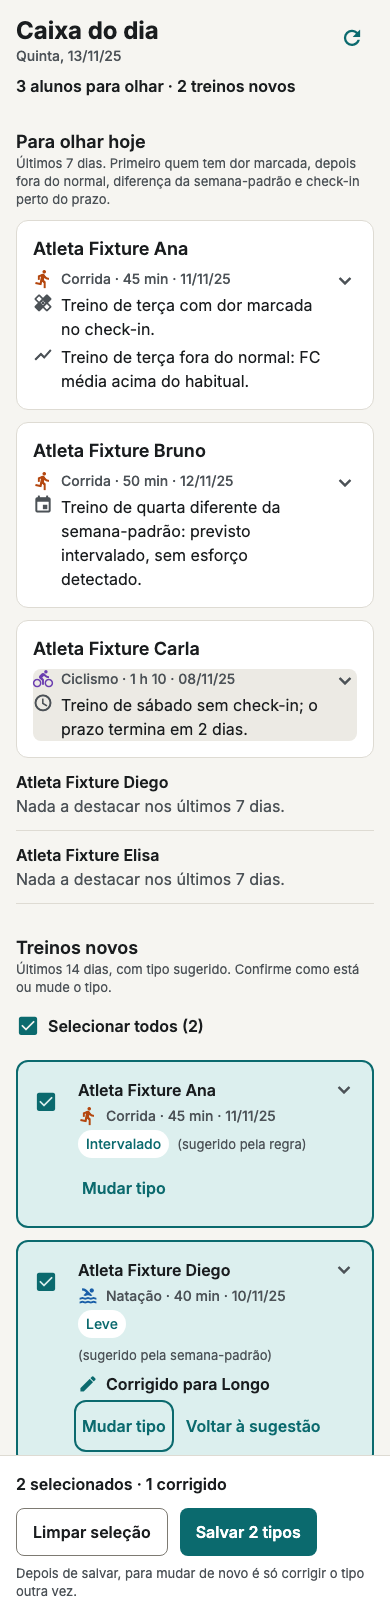
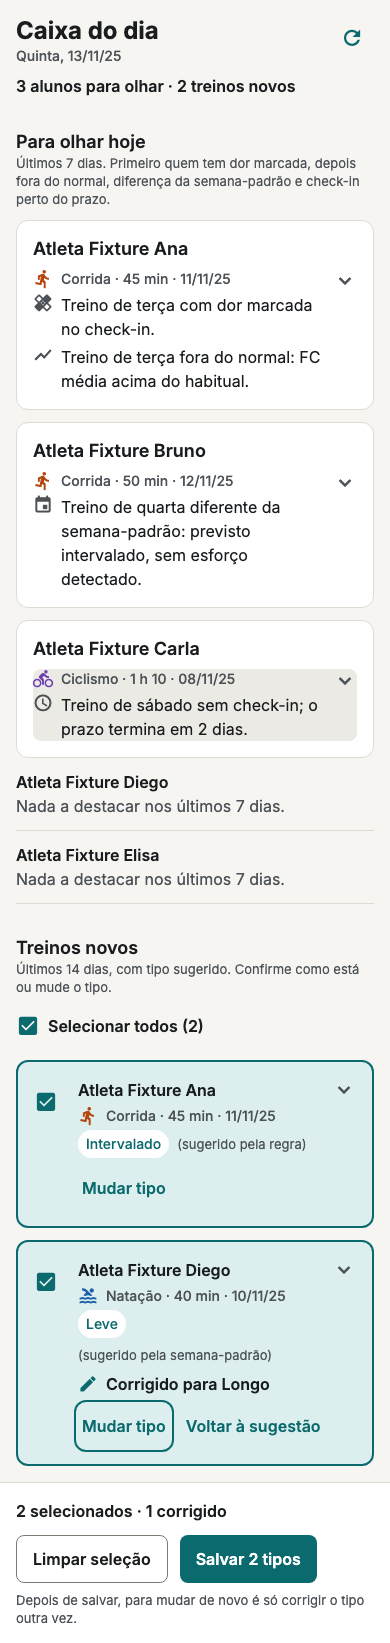
Caixa do dia: ajustes da revisão da Lia (Closes #452) (#453)
* Caixa do dia: espaco medido da barra, fundo da folha fora do foco e texto do feedback pendente (Closes #452)

* Folha de tipo: fundo com tabIndex -1 (fora do Tab na web)

* Docs: limitacao do Tab na folha de tipo (marcador do Modal do RN-web)

---------

diff --git a/apps/mobile/__tests__/AjustesCaixaDoDia.test.tsx b/apps/mobile/__tests__/AjustesCaixaDoDia.test.tsx
@@ -1,0 +1,102 @@
+// Ajustes da revisão da Lia na caixa rodando (#452): espaço medido da barra, fundo da folha e texto do feedback pendente.
+import { fireEvent, render, screen, within } from "@testing-library/react-native";
+
+import type { CaixaDoDia } from "../src/caixa/api";
+import { TelaCaixaDoDia } from "../src/componentes/TelaCaixaDoDia";
+import { caixa } from "../__fixtures__/caixaDoDia";
+
+jest.mock("@expo/vector-icons", () => {
+  const { Text } = require("react-native");
+  return { MaterialIcons: ({ name, size }: { name: string; size: number }) => <Text>{`${name}:${size}`}</Text> };
+});
+
+jest.setTimeout(20000);
+
+const resposta = (status: number, corpo: unknown) => ({ ok: status >= 200 && status < 300, status, json: async () => corpo }) as Response;
+const copia = (): CaixaDoDia => JSON.parse(JSON.stringify(caixa));
+const api = (get: CaixaDoDia = caixa, put: () => Response = () => resposta(200, { confirmados: 1, corrigidos: 0 })) =>
+  jest.fn(async (_u: RequestInfo | URL, init?: RequestInit) => (init?.method === "PUT" ? put() : resposta(200, get))) as unknown as typeof fetch;
+const aberta = async (f: typeof fetch) => {
+  await render(<TelaCaixaDoDia apiUrl="http://api.teste" professorId={7} fetchFn={f} />);
+  await screen.findByTestId("resumo");
+};
+const espacoFinal = () => {
+  const estilo = [screen.getByTestId("rolagem-tela").props.contentContainerStyle].flat(5).filter(Boolean);
+  return estilo.reduce((a: number | undefined, x: { paddingBottom?: number }) => x.paddingBottom ?? a, undefined) as number | undefined;
+};
+const medir = (altura: number) => fireEvent(screen.getByTestId("barra-lote"), "layout", { nativeEvent: { layout: { x: 0, y: 0, width: 390, height: altura } } });
+
+describe("espaço no fim da lista = altura medida da barra + espaco.4", () => {
+  it("usa a altura medida (e não um valor fixo)", async () => {
+    await aberta(api());
+    await fireEvent.press(screen.getByTestId("selecionar-511"));
+    await medir(171);
+    expect(espacoFinal()).toBe(171 + 16);
+  });
+
+  it("acompanha a barra quando ela cresce com o aviso de erro e quando encolhe", async () => {
+    const f = api(caixa, () => resposta(404, { detail: [{ type: "atividade_nao_encontrada" }] }));
+    await aberta(f);
+    await fireEvent.press(screen.getByTestId("selecionar-511"));
+    await medir(140);
+    expect(espacoFinal()).toBe(156);
+    await fireEvent.press(screen.getByText("Salvar 1 tipo"));
+    await screen.findByTestId("erro-lote");
+    await medir(236);
+    expect(espacoFinal()).toBe(252);
+    await medir(140);
+    expect(espacoFinal()).toBe(156);
+  });
+
+  it("sem barra, não reserva espaço extra", async () => {
+    await aberta(api());
+    expect(espacoFinal()).toBeUndefined();
+  });
+});
+
+describe("fundo da folha de tipo", () => {
+  it("fica fora da ordem de foco e da árvore de acessibilidade; só o botão 'Fechar' tem esse rótulo", async () => {
+    await aberta(api());
+    await fireEvent.press(screen.getByTestId("mudar-tipo-511"));
+    const fundo = screen.getByTestId("fundo-folha", { includeHiddenElements: true });
+    expect(fundo.props.accessible).toBe(false);
+    expect(fundo.props.focusable).toBe(false);
+    expect(fundo.props["aria-hidden"]).toBe(true);
+    expect(fundo.props.tabIndex).toBe(-1); // na web o Pressable vira div com tabindex=0; -1 o tira do Tab
+    expect(fundo.props.importantForAccessibility).toBe("no");
+    expect(fundo.props.accessibilityLabel).toBeUndefined();
+    expect(screen.getAllByLabelText("Fechar")).toHaveLength(1);
+  });
+
+  it("tocar no fundo e o botão 'Fechar' continuam fechando; a folha não fica dentro do fundo oculto", async () => {
+    await aberta(api());
+    await fireEvent.press(screen.getByTestId("mudar-tipo-511"));
+    await fireEvent.press(screen.getByTestId("fundo-folha", { includeHiddenElements: true }));
+    expect(screen.queryByText("Tipo do treino")).toBeNull();
+    await fireEvent.press(screen.getByTestId("mudar-tipo-511"));
+    expect(screen.getByText("Tipo do treino")).toBeTruthy();
+    await fireEvent.press(screen.getByLabelText("Fechar"));
+    expect(screen.queryByText("Tipo do treino")).toBeNull();
+  });
+});
+
+describe("feedback pendente na caixa", () => {
+  it("diz 'O feedback ainda não está pronto.' e não manda tocar em Atualizar", async () => {
+    const c = copia();
+    c.alunos[0].treinos[0].detalhe.feedback = {
+      estado: "pendente",
+      mensagem: "O feedback deste treino ainda não foi gerado. Toque em Atualizar para ver se já está pronto.",
+    };
+    await aberta(api(c));
+    await fireEvent.press(screen.getByTestId("treino-501"));
+    const d = screen.getByTestId("detalhe-501");
+    expect(within(d).getByText("O feedback ainda não está pronto.")).toBeTruthy();
+    expect(screen.queryByText(/Toque em Atualizar/)).toBeNull();
+  });
+
+  it("os outros estados seguem a mensagem da API", async () => {
+    await aberta(api());
+    await fireEvent.press(screen.getByTestId("treino-503"));
+    expect(within(screen.getByTestId("detalhe-503")).getByText("O prazo do check-in deste treino acabou.")).toBeTruthy();
+  });
+});

diff --git a/apps/mobile/src/componentes/TelaCaixaDoDia.tsx b/apps/mobile/src/componentes/TelaCaixaDoDia.tsx
@@ -95,6 +95,8 @@ export function TelaCaixaDoDia({ apiUrl, professorId, fetchFn }: Props) {
   const [sucesso, setSucesso] = useState<string | null>(null);
   const [folha, setFolha] = useState<number | null>(null);
   const [anuncio, setAnuncio] = useState("");
+  // Altura medida da barra de lote: o fim da lista reserva essa altura mais `espaco.4` (muda com o aviso de erro aberto).
+  const [alturaBarra, setAlturaBarra] = useState(0);
   const rolagem = useRef<ComponentRef<typeof ScrollView>>(null);
   const tituloNovos = useRef<ComponentRef<typeof Text>>(null);
   const linhasNovas = useRef(new Map<number, ComponentRef<typeof View> | null>());
@@ -261,7 +263,7 @@ export function TelaCaixaDoDia({ apiUrl, professorId, fetchFn }: Props) {
 
   return (
     <View style={styles.raiz}>
-    <ScrollView ref={rolagem} testID="rolagem-tela" contentContainerStyle={[styles.container, barra && { paddingBottom: erroLote ? 240 : 150 }]}>
+    <ScrollView ref={rolagem} testID="rolagem-tela" contentContainerStyle={[styles.container, barra && { paddingBottom: alturaBarra + espaco[4] }]}>
       <View style={styles.cabecalho}>
         <View style={styles.cabecalhoTextos}>
           <Text accessibilityRole="header" aria-level={1} style={styles.titulo}>
@@ -410,7 +412,7 @@ export function TelaCaixaDoDia({ apiUrl, professorId, fetchFn }: Props) {
         </View>
       )}
     </ScrollView>
-    {barra && <BarraLote selecionados={selecao.size} corrigidos={corrigidos} salvando={salvando} erro={erroLote} aoLimpar={limparSelecao} aoSalvar={() => void salvar()} aoAtualizar={atualizarDoErro} />}
+    {barra && <BarraLote selecionados={selecao.size} corrigidos={corrigidos} salvando={salvando} erro={erroLote} aoLimpar={limparSelecao} aoSalvar={() => void salvar()} aoAtualizar={atualizarDoErro} aoMedir={setAlturaBarra} />}
     {noFolha && (
       <FolhaTipo
         visivel
@@ -589,7 +591,8 @@ function Detalhe({ detalhe, testID, irParaNovo, styles, tema }: { detalhe: Detal
   const c = detalhe.checkin;
   const sensacao = c ? SENSACOES.find((s) => s.valor === c.sensacao) : undefined;
   const f = detalhe.feedback;
-  const feedback = f ? (f.estado === "pronto" && f.texto ? f.texto : f.mensagem) : null;
+  // A mensagem de "pendente" da API fala com o atleta ("Toque em Atualizar..."); na caixa o único "Atualizar" é o ícone do topo.
+  const feedback = f ? (f.estado === "pronto" && f.texto ? f.texto : f.estado === "pendente" ? "O feedback ainda não está pronto." : f.mensagem) : null;
   const tipo = detalhe.tipo_texto ?? "Sem tipo";
   const linha = (rotulo: string, valor: string, extra?: string, icone?: (typeof SENSACOES)[number]["icone"]) => (
     <View style={styles.detalheLinha}>

diff --git a/apps/mobile/src/componentes/FolhaTipo.tsx b/apps/mobile/src/componentes/FolhaTipo.tsx
@@ -33,8 +33,19 @@ export function FolhaTipo({ visivel, subtitulo, sugerido, escolhido, aoEscolher,
   const styles = useMemo(() => criarEstilos(tema, computador), [tema, computador]);
   return (
     <Modal visible={visivel} transparent animationType="none" onRequestClose={aoFechar} accessibilityViewIsModal>
-      <Pressable testID="fundo-folha" accessibilityLabel="Fechar" onPress={aoFechar} style={styles.fundo}>
-        <Pressable role="dialog" aria-modal aria-label="Tipo do treino" accessible={false} onPress={() => {}} style={styles.folha}>
+      <View style={styles.fundo}>
+        {/* O fundo só fecha com toque: fora da ordem de foco e da árvore de acessibilidade (Esc e o botão "Fechar" fecham pelo teclado e pelo leitor). */}
+        <Pressable
+          testID="fundo-folha"
+          accessible={false}
+          focusable={false}
+          {...FOCAVEL}
+          importantForAccessibility="no"
+          aria-hidden
+          onPress={aoFechar}
+          style={StyleSheet.absoluteFill}
+        />
+        <View role="dialog" aria-modal aria-label="Tipo do treino" style={styles.folha}>
           <View style={styles.topo}>
             <Text ref={titulo} {...FOCAVEL} accessibilityRole="header" style={styles.titulo}>
               Tipo do treino
@@ -65,8 +76,8 @@ export function FolhaTipo({ visivel, subtitulo, sugerido, escolhido, aoEscolher,
               );
             })}
           </View>
-        </Pressable>
-      </Pressable>
+        </View>
+      </View>
     </Modal>
   );
 }

diff --git a/apps/mobile/scripts/capturas-lib.js b/apps/mobile/scripts/capturas-lib.js
@@ -20,9 +20,9 @@ const ROTAS = [
   { nome: "caixa-do-dia-sem-motivo", caminho: "/caixa-do-dia", simular: "sem-motivo" },
   { nome: "caixa-do-dia-erro-rede", caminho: "/caixa-do-dia", simular: "rede" },
   { nome: "caixa-do-dia-404", caminho: "/caixa-do-dia", simular: "404" },
-  // Lote (#427): `teclar` aperta teclas (anel de foco por teclado); as demais abrem a folha, selecionam e salvam.
+  // Lote (#427): `rolarAoFim` rola a lista até o fim (o último cartão tem de caber inteiro acima da barra); `teclar` aperta teclas (anel de foco por teclado); as demais abrem a folha, selecionam e salvam.
   { nome: "caixa-do-dia-foco", caminho: "/caixa-do-dia", teclar: ["Tab", "Tab"] },
-  { nome: "caixa-do-dia-selecao", caminho: "/caixa-do-dia", clicar: ["selecionar-511", "mudar-tipo-512", "tipo-longo"] },
+  { nome: "caixa-do-dia-selecao", caminho: "/caixa-do-dia", clicar: ["selecionar-511", "mudar-tipo-512", "tipo-longo"], rolarAoFim: true },
   { nome: "caixa-do-dia-folha", caminho: "/caixa-do-dia", clicar: ["selecionar-511", "mudar-tipo-512"] },
   { nome: "caixa-do-dia-salvando", caminho: "/caixa-do-dia", simular: "salvando", clicar: ["selecionar-511", "selecionar-512", "salvar-lote"] },
   { nome: "caixa-do-dia-lote-erro", caminho: "/caixa-do-dia", simular: "lote-erro", clicar: ["selecionar-511", "selecionar-512", "salvar-lote"] },

diff --git a/apps/mobile/src/componentes/BarraLote.tsx b/apps/mobile/src/componentes/BarraLote.tsx
@@ -17,17 +17,19 @@ type Props = {
   aoSalvar: () => void;
   /** "Atualizar" do erro: atualiza a lista e limpa a seleção. */
   aoAtualizar: () => void;
+  /** Altura medida da barra (`onLayout`), para a lista reservar o espaço certo no fim. */
+  aoMedir?: (altura: number) => void;
 };
 
 export const textoSelecionados = (n: number, c: number) => `${n} ${n === 1 ? "selecionado" : "selecionados"} · ${c} ${c === 1 ? "corrigido" : "corrigidos"}`;
 export const textoSalvar = (n: number) => `Salvar ${n} ${n === 1 ? "tipo" : "tipos"}`;
 
-export function BarraLote({ selecionados, corrigidos, salvando, erro, aoLimpar, aoSalvar, aoAtualizar }: Props) {
+export function BarraLote({ selecionados, corrigidos, salvando, erro, aoLimpar, aoSalvar, aoAtualizar, aoMedir }: Props) {
   const tema = useTema();
   const margem = useMargemTela();
   const styles = useMemo(() => criarEstilos(tema, margem), [tema, margem]);
   return (
-    <View role="region" aria-label="Ações do lote" testID="barra-lote" style={styles.barra}>
+    <View role="region" aria-label="Ações do lote" testID="barra-lote" style={styles.barra} onLayout={(e) => aoMedir?.(e.nativeEvent.layout.height)}>
       <View style={styles.miolo}>
         {erro && (
           <View testID="erro-lote" accessibilityRole="alert" style={styles.erro}>

diff --git a/apps/mobile/__tests__/LoteCaixaDoDia.test.tsx b/apps/mobile/__tests__/LoteCaixaDoDia.test.tsx
@@ -130,7 +130,7 @@ describe("lote: folha de tipo", () => {
   it("'Fechar' fecha sem mudar nada", async () => {
     await aberta(api(ok({})));
     await fireEvent.press(screen.getByTestId("mudar-tipo-511"));
-    await fireEvent.press(screen.getAllByLabelText("Fechar")[1]);
+    await fireEvent.press(screen.getByLabelText("Fechar"));
     expect(screen.queryByText("Tipo do treino")).toBeNull();
     expect(screen.queryByTestId("barra-lote")).toBeNull();
   });

diff --git a/apps/mobile/__tests__/capturas.test.ts b/apps/mobile/__tests__/capturas.test.ts
@@ -59,6 +59,9 @@ describe("rotas da caixa do dia (#426)", () => {
       "caixa-do-dia-escuro-390-alto.png",
     ]);
   });
+  it("a captura -selecao rola a lista até o fim", () => {
+    expect(caixa.find((r: any) => r.nome === "caixa-do-dia-selecao").rolarAoFim).toBe(true);
+  });
   it("toda simulação pedida existe", () => {
     for (const r of caixa) if (r.simular) expect(SIMULACOES[r.simular]).toBeDefined();
   });

diff --git a/apps/mobile/__tests__/FocoCaixaDoDia.test.tsx b/apps/mobile/__tests__/FocoCaixaDoDia.test.tsx
@@ -52,7 +52,7 @@ describe("folha de tipo", () => {
     await aberta(api());
     await fireEvent.press(screen.getByTestId("mudar-tipo-511"));
     await waitFor(() => expect(foco.focar).toHaveBeenCalled());
-    await fireEvent.press(screen.getAllByLabelText("Fechar")[1]);
+    await fireEvent.press(screen.getByLabelText("Fechar"));
     expect(screen.queryByText("Tipo do treino")).toBeNull();
   });
 });

diff --git a/docs/modulos/mobile.md b/docs/modulos/mobile.md
@@ -29,7 +29,7 @@ O app não calcula pace: todo `m:ss` virá da [[modulos/api]].
 | `src/app/caixa-do-dia.tsx` | `/caixa-do-dia` | `TelaCaixaDoDia` (#426), com `config.apiUrl` e `config.professorId`; ainda não é a página inicial (a `/` segue a evolução do atleta) |
 
 ## Caixa do dia do professor (`TelaCaixaDoDia`, #426)
-`src/componentes/TelaCaixaDoDia.tsx`, spec [[design/telas/caixa-do-dia]], ADR [[decisoes/0015-caixa-do-dia-do-professor]]. Chama `buscarCaixaDoDia` (`src/caixa/api.ts`, `GET /professores/{id}/caixa-do-dia`) e mostra: título, data de hoje, botão "Atualizar", resumo, seção "Para olhar hoje" (cartão por aluno, um motivo por linha com o texto da API e o ícone do código; aluno sem motivo em linha compacta) e "Treinos novos" (chip do tipo sugerido e origem, caixa de seleção, "Mudar tipo" e o lote da #427). O app não reordena, não calcula motivo nem janela. Detalhe do treino é **acordeão** dentro da lista (sem rota nova; vários abertos; fecha ao atualizar): tipo, esforço, sensação, atalhos (texto, não tocáveis), feedback e, só ali, "Observação do aluno" com "Só você vê. Não vai ao provedor de IA." A observação nunca entra em rótulo de acessibilidade, anúncio, log ou armazenamento. Estados: carregando (esqueleto), sem alunos, ninguém com motivo, sem novos, erro de rede e `5xx` ("Tentar de novo"), 404 uniforme ou sem professor ("Caixa do dia não encontrada", sem tentar de novo), erro ao atualizar (aviso e a lista antiga fica). Coluna de 720 no computador. **Lote (#427):** nenhum treino novo vem selecionado; "Selecionar todos (N)" marca no máximo 200 (com mais, avisa). Escolher outro tipo na folha "Tipo do treino" (`FolhaTipo`, cinco opções em grupo de rádio, etiqueta "Sugerido"; folha de baixo no celular, caixa de 400 centrada a partir de 900 de largura) seleciona a linha e mostra "Corrigido para ..."; "Voltar à sugestão" tira a correção e mantém a seleção. A barra fixa `BarraLote` só existe com seleção e diz "N selecionados · N corrigidos" antes de salvar, sem diálogo. "Salvar N tipos" chama `confirmarTiposDeTreino` (`PUT /professores/{id}/tipos-de-treino`, corpo só com `atividade_id` e `tipo_treino`, na ordem da API) e, com `200`, anuncia "3 treinos salvos: 2 confirmados e 1 corrigido." (números da resposta), limpa a seleção e busca a caixa de novo; se essa busca falhar, diz que o salvo está salvo. Recusa (404 `atividade_nao_encontrada`, 422 `atividade_sem_tipo`, 422 de validação, rede, 5xx): nada foi salvo, a seleção e as correções ficam, aviso `alert` acima da barra ("Atualizar" limpa a seleção quando faz sentido). Anúncios: região viva sempre montada (Android) mais `announceForAccessibility` (iOS e web), só texto. Anel de foco `borda.foco` em `cor.foco` nos botões (`src/tema/foco.ts`). Testes: `__tests__/LoteCaixaDoDia.test.tsx`. Foco (`src/navegacao/foco.ts`, `FocoCaixaDoDia.test.tsx`): depois de salvar o foco vai ao título "Treinos novos"; a folha leva o foco ao título ao abrir, prende o Tab (o `Modal` do react-native-web já faz) e devolve o foco ao "Mudar tipo" ao fechar (guardado ao abrir). Conferido no Chromium com Tab, Enter e Esc (título focado, 12 Tabs sempre dentro do diálogo, foco de volta no botão). O botão "Confirmar ou corrigir em Treinos novos" aparece no detalhe de um treino com divergência que ainda está em "Treinos novos", rola até a linha e a foca; sem a linha, o botão não aparece. Chip do tipo em `cor.superficie` na linha selecionada. Não verificado com leitor de tela de verdade nem no celular (a rolagem e o foco nativos usam `measureLayout` e `setAccessibilityFocus`). Testes: `__tests__/TelaCaixaDoDia.test.tsx`, fixture sintética `__fixtures__/caixaDoDia.ts`. API falsa: `GET /professores/{id}/caixa-do-dia` (1 conteúdo, 2 sem alunos, 3 sem motivo, 4 derruba a conexão, 5 e acima de 6 404, 6 500) e `PUT /professores/{id}/tipos-de-treino` (valida o lote, aceita só os ids 511 e 512, devolve as contagens e **não grava**). Capturas (`npm run capturas`): `caixa-do-dia`, `-detalhe`, `-sem-alunos`, `-sem-motivo`, `-erro-rede` e `-404` (os estados são simulados no navegador sobre a resposta da API falsa), mais `-foco` (Tab duas vezes), `-selecao`, `-folha`, `-salvando`, `-lote-erro` e `-lote-salvo` (#427), em `docs/design/telas/caixa-do-dia/`.
+`src/componentes/TelaCaixaDoDia.tsx`, spec [[design/telas/caixa-do-dia]], ADR [[decisoes/0015-caixa-do-dia-do-professor]]. Chama `buscarCaixaDoDia` (`src/caixa/api.ts`, `GET /professores/{id}/caixa-do-dia`) e mostra: título, data de hoje, botão "Atualizar", resumo, seção "Para olhar hoje" (cartão por aluno, um motivo por linha com o texto da API e o ícone do código; aluno sem motivo em linha compacta) e "Treinos novos" (chip do tipo sugerido e origem, caixa de seleção, "Mudar tipo" e o lote da #427). O app não reordena, não calcula motivo nem janela. Detalhe do treino é **acordeão** dentro da lista (sem rota nova; vários abertos; fecha ao atualizar): tipo, esforço, sensação, atalhos (texto, não tocáveis), feedback e, só ali, "Observação do aluno" com "Só você vê. Não vai ao provedor de IA." A observação nunca entra em rótulo de acessibilidade, anúncio, log ou armazenamento. Estados: carregando (esqueleto), sem alunos, ninguém com motivo, sem novos, erro de rede e `5xx` ("Tentar de novo"), 404 uniforme ou sem professor ("Caixa do dia não encontrada", sem tentar de novo), erro ao atualizar (aviso e a lista antiga fica). Coluna de 720 no computador. **Lote (#427):** nenhum treino novo vem selecionado; "Selecionar todos (N)" marca no máximo 200 (com mais, avisa). Escolher outro tipo na folha "Tipo do treino" (`FolhaTipo`, cinco opções em grupo de rádio, etiqueta "Sugerido"; folha de baixo no celular, caixa de 400 centrada a partir de 900 de largura) seleciona a linha e mostra "Corrigido para ..."; "Voltar à sugestão" tira a correção e mantém a seleção. A barra fixa `BarraLote` só existe com seleção e diz "N selecionados · N corrigidos" antes de salvar, sem diálogo. "Salvar N tipos" chama `confirmarTiposDeTreino` (`PUT /professores/{id}/tipos-de-treino`, corpo só com `atividade_id` e `tipo_treino`, na ordem da API) e, com `200`, anuncia "3 treinos salvos: 2 confirmados e 1 corrigido." (números da resposta), limpa a seleção e busca a caixa de novo; se essa busca falhar, diz que o salvo está salvo. Recusa (404 `atividade_nao_encontrada`, 422 `atividade_sem_tipo`, 422 de validação, rede, 5xx): nada foi salvo, a seleção e as correções ficam, aviso `alert` acima da barra ("Atualizar" limpa a seleção quando faz sentido). Anúncios: região viva sempre montada (Android) mais `announceForAccessibility` (iOS e web), só texto. Anel de foco `borda.foco` em `cor.foco` nos botões (`src/tema/foco.ts`). O fim da lista reserva a altura medida da barra de lote (`onLayout`) mais `espaco.4` (#452); o fundo da folha não entra no foco nem na árvore de acessibilidade; o feedback pendente diz "O feedback ainda não está pronto." (a mensagem da API fala com o atleta). **Limitação conhecida (web):** dentro da folha, o Tab faz uma parada num elemento sem rótulo entre o último tipo e o "Fechar" (o marcador de foco preso do `Modal` do react-native-web, que fica dentro do diálogo); o fundo já não participa do Tab (`tabIndex={-1}`). Aceita pelo Theo; só mudaria trocando o `Modal`. Testes: `__tests__/LoteCaixaDoDia.test.tsx`. Foco (`src/navegacao/foco.ts`, `FocoCaixaDoDia.test.tsx`): depois de salvar o foco vai ao título "Treinos novos"; a folha leva o foco ao título ao abrir, prende o Tab (o `Modal` do react-native-web já faz) e devolve o foco ao "Mudar tipo" ao fechar (guardado ao abrir). Conferido no Chromium com Tab, Enter e Esc (título focado, 12 Tabs sempre dentro do diálogo, foco de volta no botão). O botão "Confirmar ou corrigir em Treinos novos" aparece no detalhe de um treino com divergência que ainda está em "Treinos novos", rola até a linha e a foca; sem a linha, o botão não aparece. Chip do tipo em `cor.superficie` na linha selecionada. Não verificado com leitor de tela de verdade nem no celular (a rolagem e o foco nativos usam `measureLayout` e `setAccessibilityFocus`). Testes: `__tests__/TelaCaixaDoDia.test.tsx`, fixture sintética `__fixtures__/caixaDoDia.ts`. API falsa: `GET /professores/{id}/caixa-do-dia` (1 conteúdo, 2 sem alunos, 3 sem motivo, 4 derruba a conexão, 5 e acima de 6 404, 6 500) e `PUT /professores/{id}/tipos-de-treino` (valida o lote, aceita só os ids 511 e 512, devolve as contagens e **não grava**). Capturas (`npm run capturas`): `caixa-do-dia`, `-detalhe`, `-sem-alunos`, `-sem-motivo`, `-erro-rede` e `-404` (os estados são simulados no navegador sobre a resposta da API falsa), mais `-foco` (Tab duas vezes), `-selecao`, `-folha`, `-salvando`, `-lote-erro` e `-lote-salvo` (#427), em `docs/design/telas/caixa-do-dia/`.
 
 ## Tela de evolução (`TelaEvolucao`)
 `src/componentes/TelaEvolucao.tsx` chama `buscarEvolucaoTiros1km` e mostra um estado por vez:
